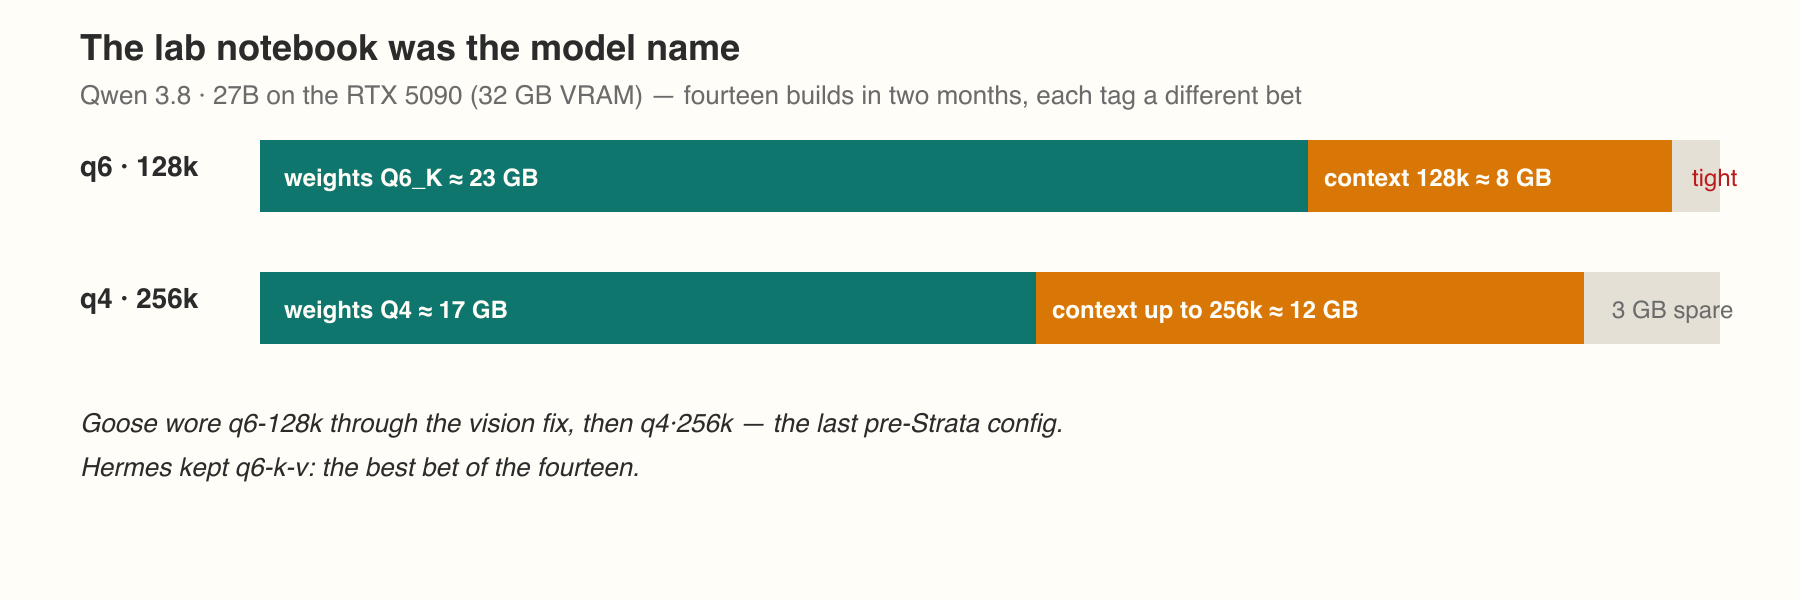
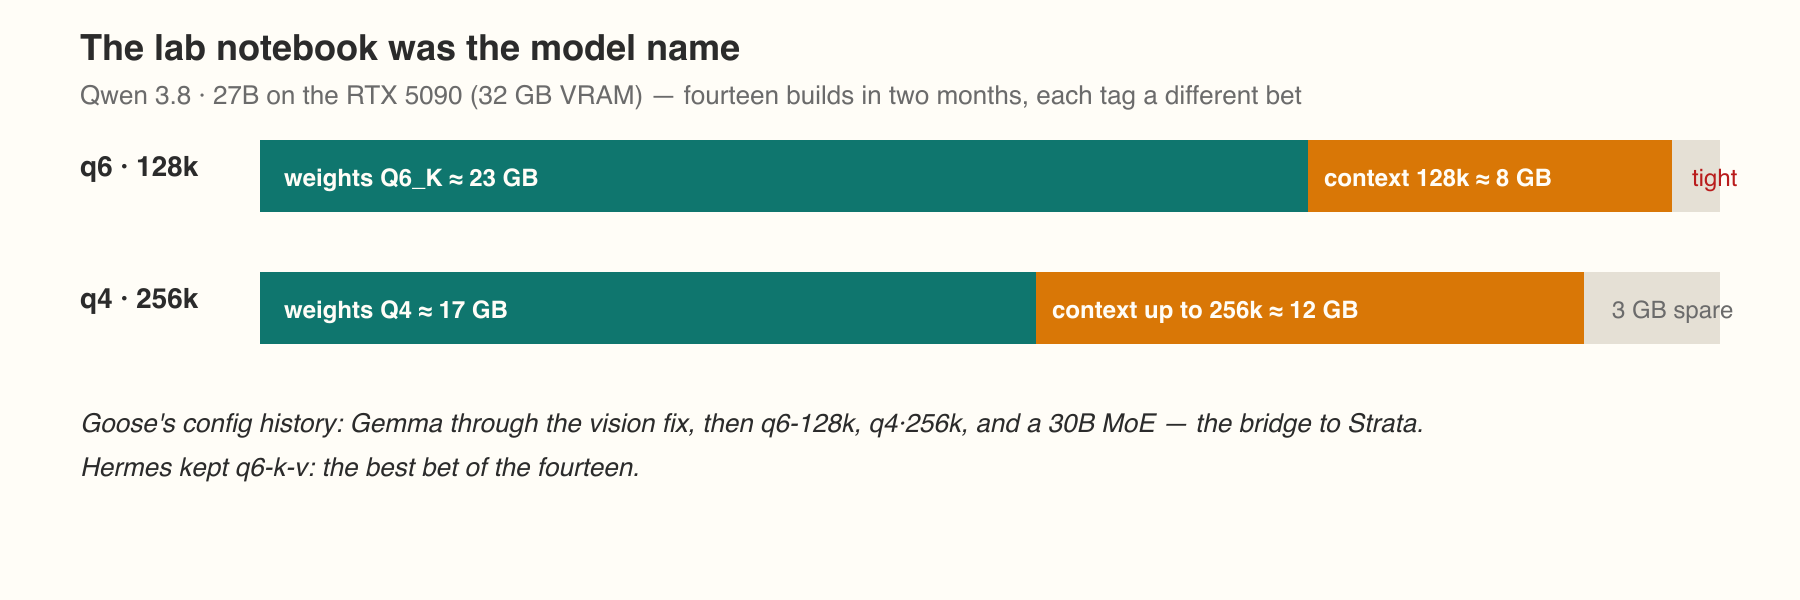
Part 2: MoE bridge sentence (Qwen3-30B-A3B on plain Ollama, per goose config mtime chain); figure footer corrected — vision fix was the Gemma era, not q6-128k

Changed region(s): [[0.0933, 0.69, 0.8089, 0.72]]

diff --git a/content/posts/20261116-ai-setup-2-the-fleet/index.md b/content/posts/20261116-ai-setup-2-the-fleet/index.md
@@ -1,7 +1,7 @@
 +++
 title = "My AI Teaching Setup, Part 2: The Fleet"
 date = 2026-11-16
-lastmod = 2026-11-16T15:59:17+11:00
+lastmod = 2026-11-16T16:04:35+11:00
 tags = ["AI", "LaTeX", "Teaching", "Hardware"]
 categories = ["Blog"]
 draft = true
@@ -21,7 +21,7 @@ The embarrassing résumé, three months later: games installed and played: zero.
 
 ## Models: the honest failures {#models-the-honest-failures}
 
-When I wrote the August article, the daily driver was Gemma — a 31-billion-parameter dense model served by Ollama, with the Goose agent driving it. That setup genuinely worked, and then the ground moved under it, because this is the year the ground keeps moving. Gemma gave way to a 27-billion-parameter Qwen, and the keeper today is a large Mixture-of-Experts model — a big library of smaller specialists where each query only wakes the few experts it needs. That architecture is what makes a 32 GB card serve something genuinely clever: the _whole_ model doesn't need to fit, just the parts being consulted. It drafts my lesson notes and my assessment tasks to a standard I sign off on, and it runs on electricity, not on someone's pricing page.
+When I wrote the August article, the daily driver was Gemma — a 31-billion-parameter dense model served by Ollama, with the Goose agent driving it. That setup genuinely worked, and then the ground moved under it, because this is the year the ground keeps moving. Gemma gave way to a 27-billion-parameter Qwen, and that to a 30-billion-parameter Mixture-of-Experts model — still on plain Ollama, still on the same card. The MoE trick was proof that the next leap would be software, not hardware. The keeper today is a larger MoE: a big library of smaller specialists where each query only wakes the few experts it needs. That architecture is what makes a 32 GB card serve something genuinely clever: the _whole_ model doesn't need to fit, just the parts being consulted. It drafts my lesson notes and my assessment tasks to a standard I sign off on, and it runs on electricity, not on someone's pricing page.
 
 {{< figure src="fig-5090-gemma.png" >}}
 
